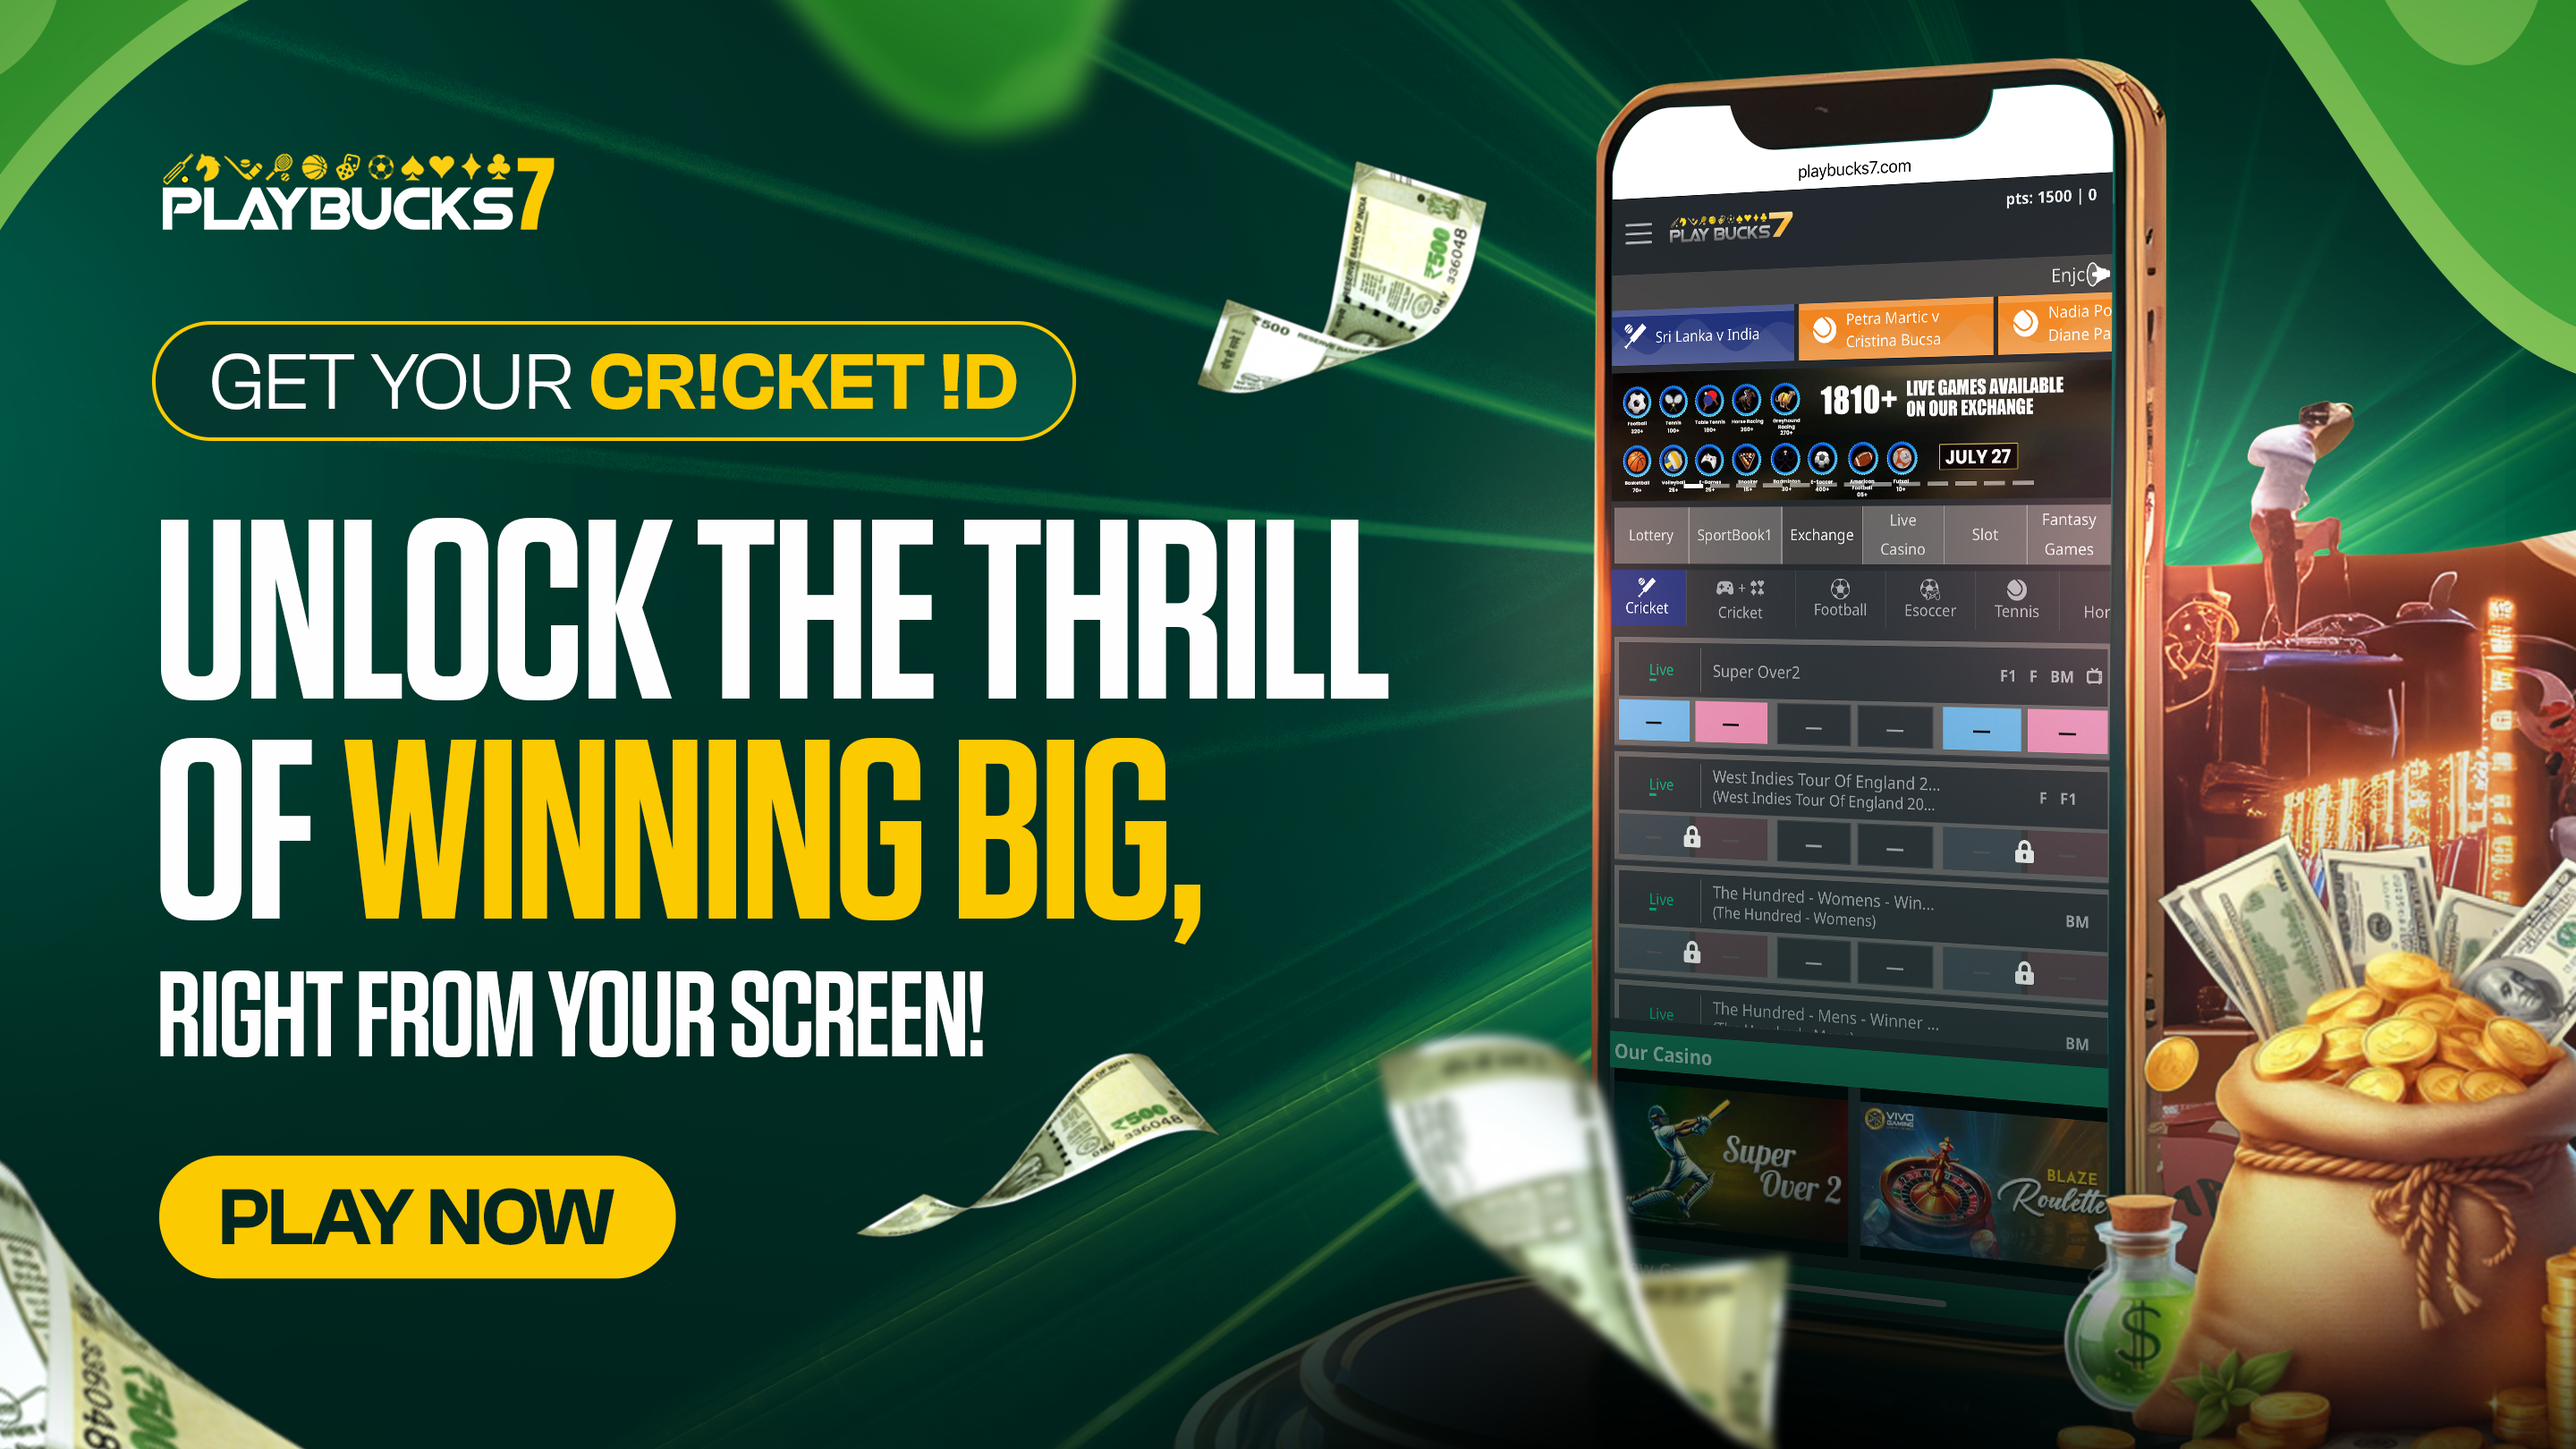
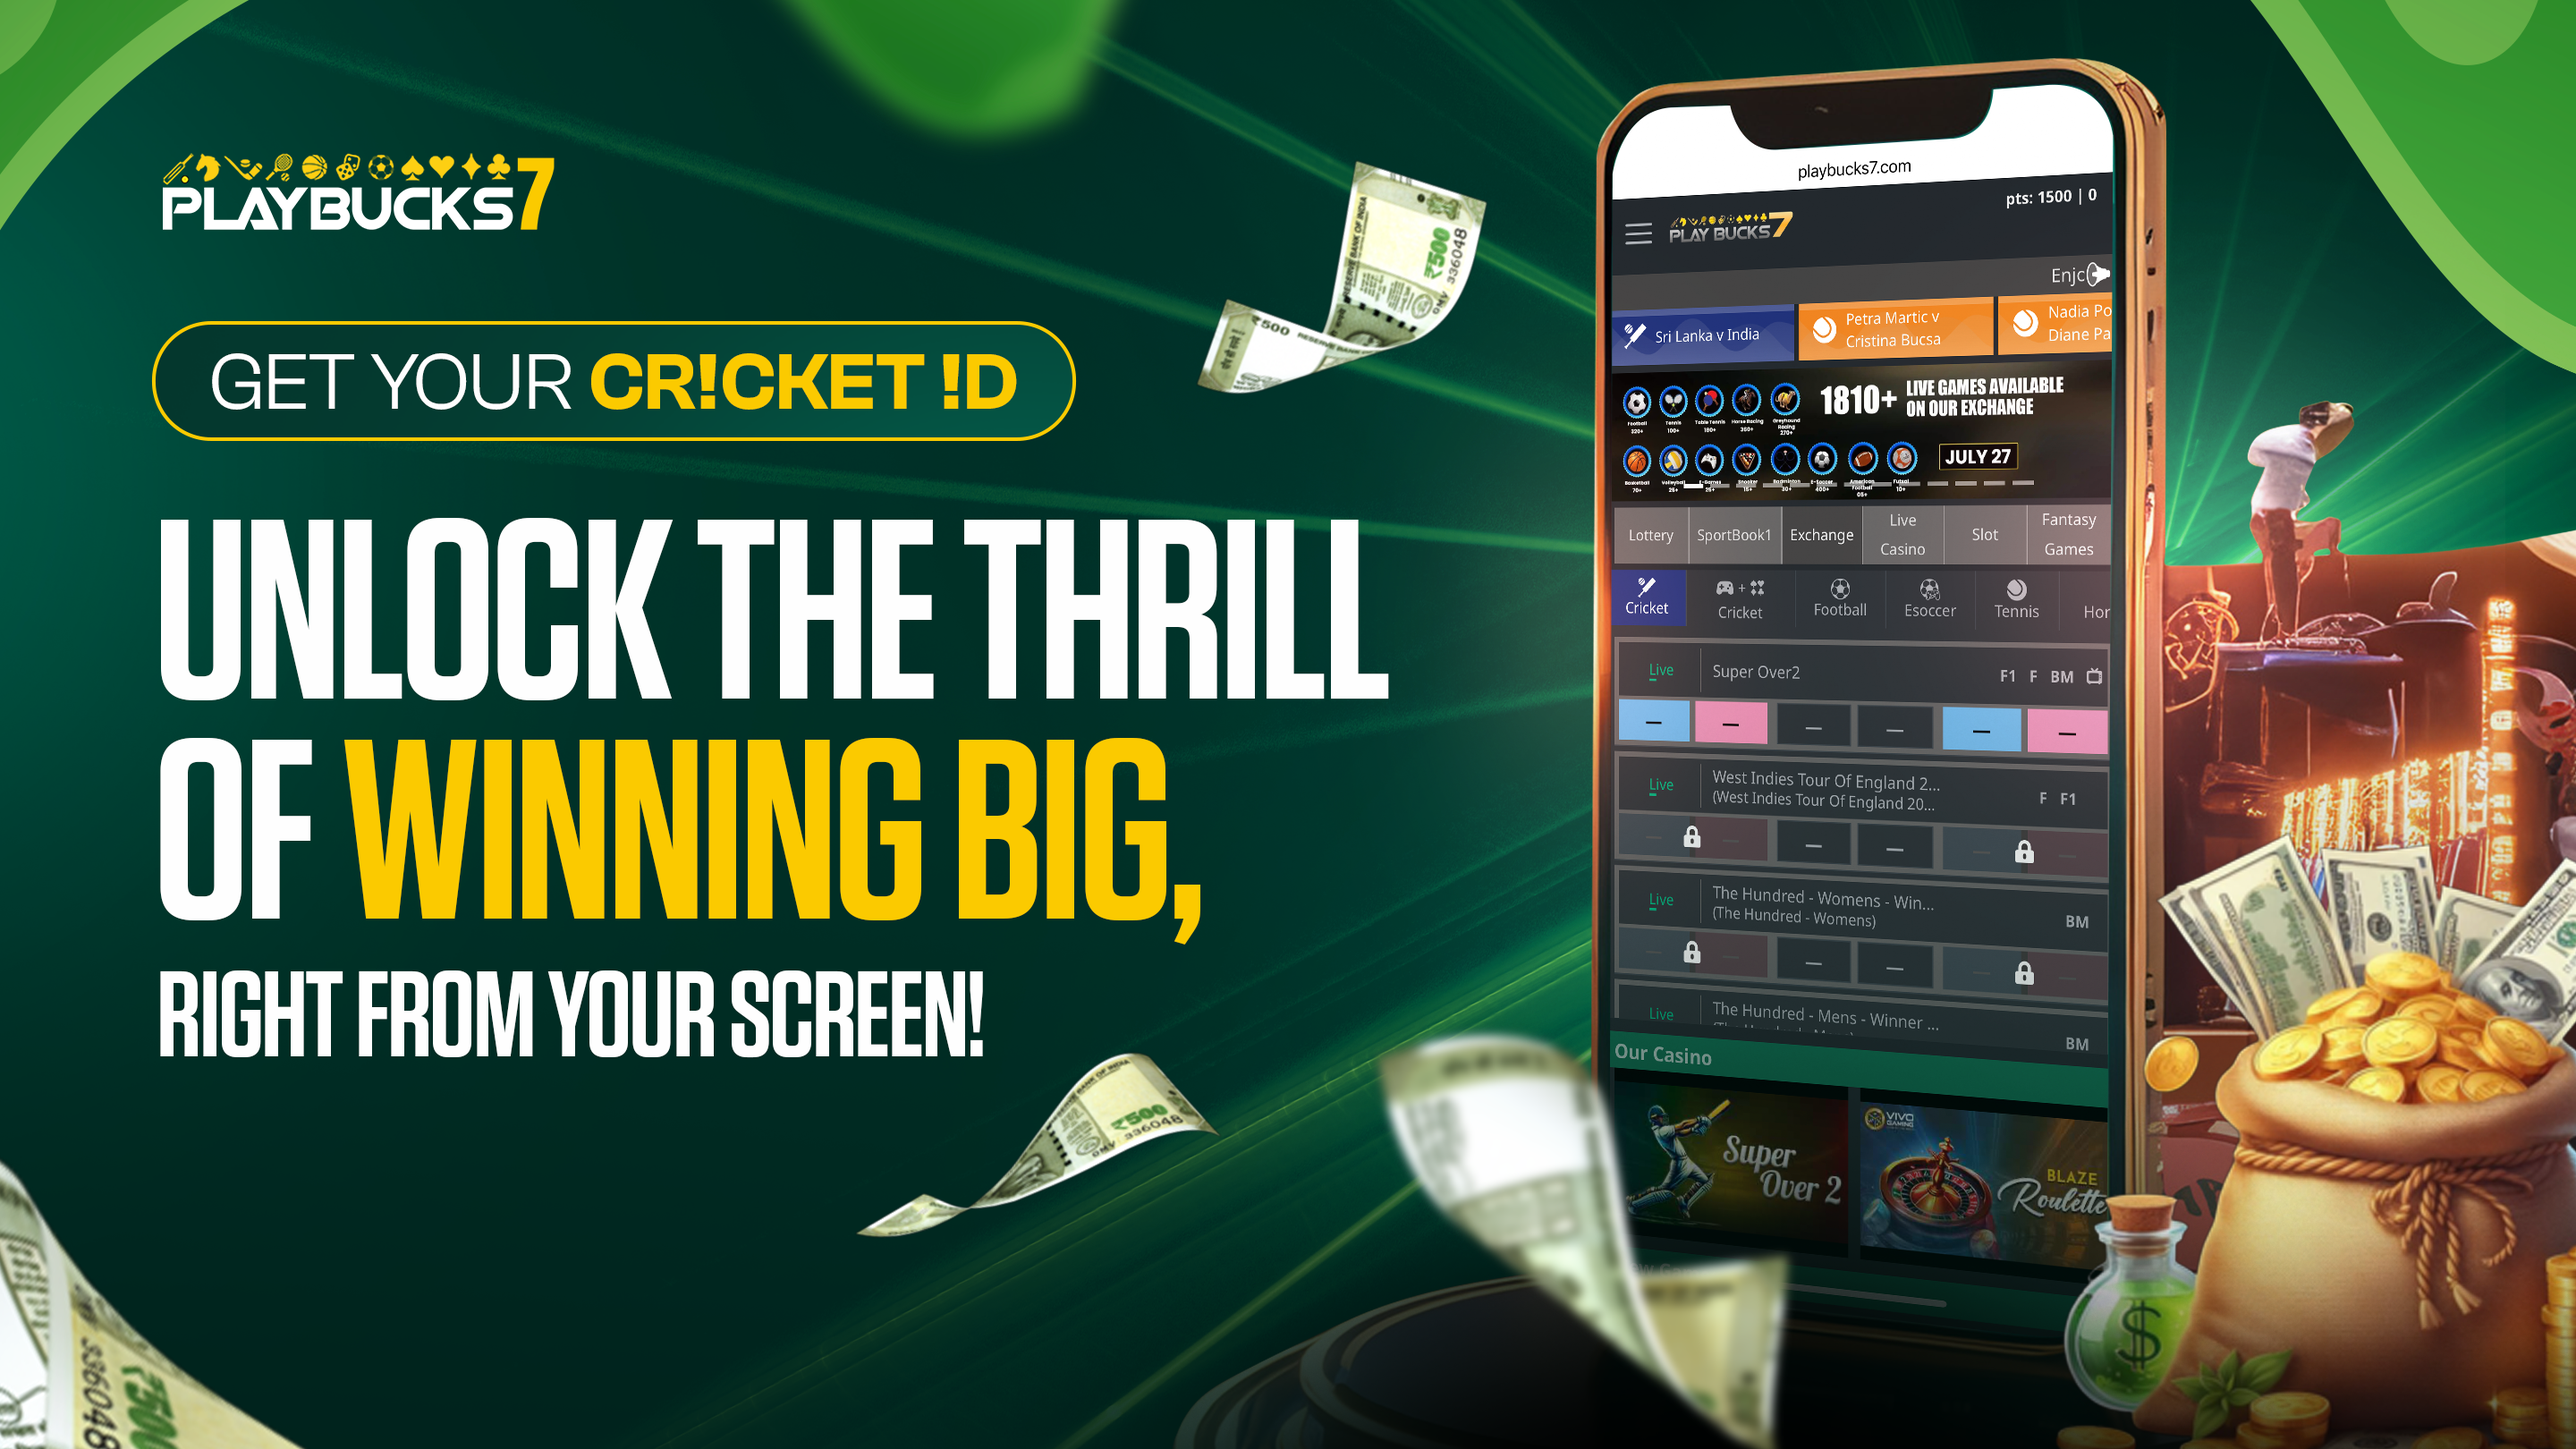
adjust button position

Changed region(s): [[0.0625, 0.7716, 0.2812, 0.8951]]

diff --git a/index.html b/index.html
@@ -17,7 +17,7 @@
       <div
         class="comp-1 sm:bg-contain bg-cover bg-no-repeat] h-[100vh] sm:bg-repeat-round bg-[url('./mobile.png')] md:bg-[url('./desktop.png')] relative"
       >
-        <div class="relative inline-flex group top-[336px] left-[90px] sm:top-[560px] ">
+        <div class="relative inline-flex group top-[44%] left-[28%] lg:left-[90px] lg:top-[560px] ">
           <div
             class="absolute transitiona-all duration-1000 opacity-70 -inset-px bg-gradient-to-r from-[#44BCFF] via-[#FF44EC] to-[#FF675E] rounded-xl blur-lg filter group-hover:opacity-100 group-hover:-inset-1 group-hover:duration-200"
           ></div>
@@ -27,7 +27,7 @@
             target="_blank"
             title=""
             role="button"
-            class="relative inline-flex items-center justify-center px-12 sm:px-14 py-2 text-base sm:text-4xl font-extrabold text-green-900 transition-all duration-200 bg-yellow-400 border-2 border-transparent focus:outline-none focus:ring-2 focus:ring-offset-2 focus:ring-gray-500 hover:bg-yellow-500 rounded-full"
+            class="relative inline-flex items-center justify-center px-12 lg:px-14 py-2 text-base sm:text-4xl font-extrabold text-green-900 transition-all duration-200 bg-yellow-400 border-2 border-transparent focus:outline-none focus:ring-2 focus:ring-offset-2 focus:ring-gray-500 hover:bg-yellow-500 rounded-full"
           >
            PLAY  NOW
           </a>
